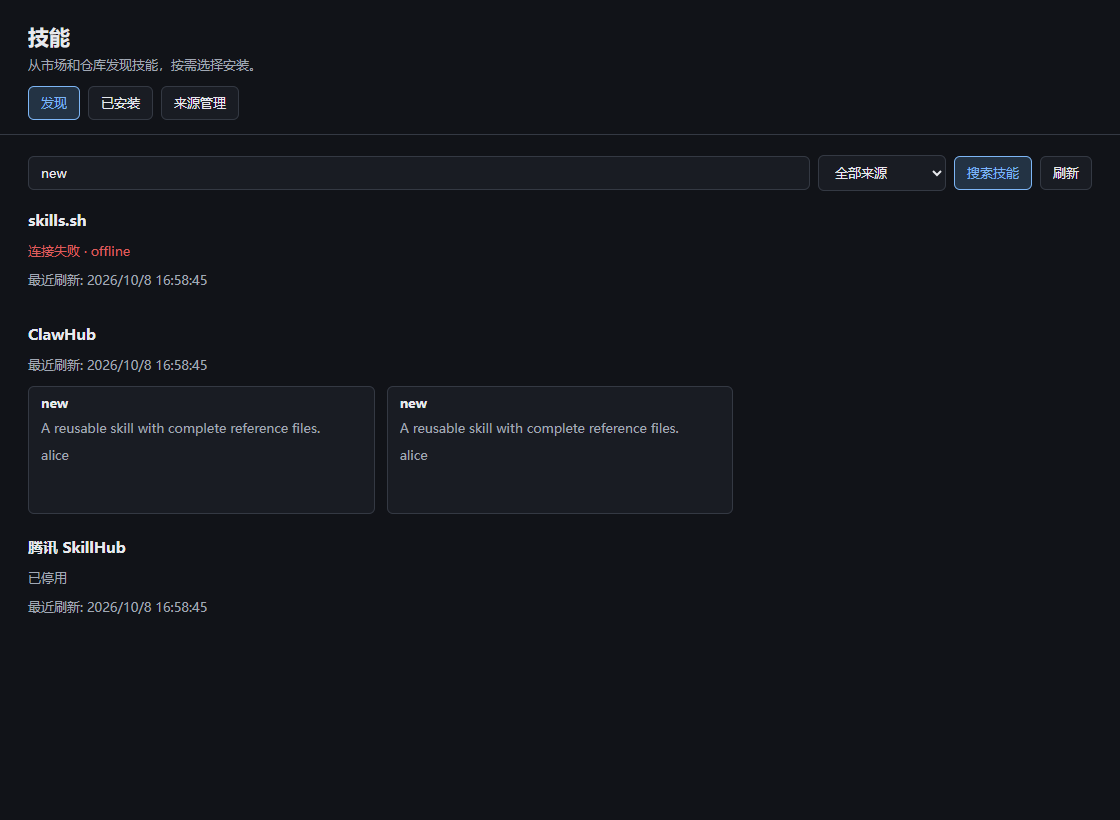
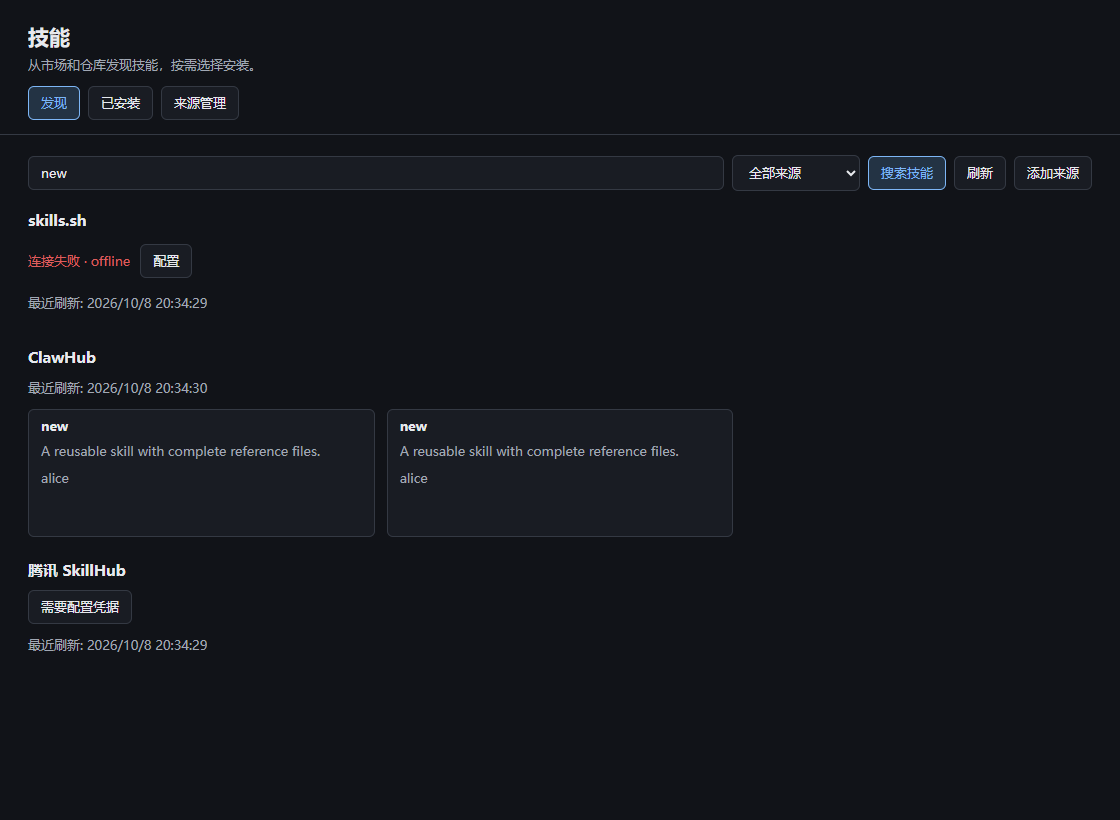
fix(skills): 从发现页直接配置凭据和添加技能来源
将需要配置凭据的状态提示改为可点击入口，直接打开对应来源表单并聚焦凭据输入框；停用或连接失败的来源也提供配置按钮。
在发现页增加添加来源按钮，直接打开自定义 Git 或市场表单，补充表单标题、使用说明、中文更新日志与界面截图。

验证：设置页浏览器回归测试通过，覆盖中英文入口、凭据聚焦、取消不保存、重开凭据为空与自定义 SkillHub 添加；TypeScript 检查及本次修改文件 ESLint 均通过，git diff --check 通过。

diff --git a/components/SkillsConfig.tsx b/components/SkillsConfig.tsx
@@ -12,6 +12,7 @@ import styles from "./skills/Skills.module.css";
 export function SkillsConfig({ cwd, onClose, embedded = false }: { cwd: string; onClose: () => void; embedded?: boolean }) {
   const { t } = useI18n();
   const [tab, setTab] = useState<"discover" | "installed" | "sources">("discover");
+  const [sourceEditor, setSourceEditor] = useState<string | null>();
   const [sources, setSources] = useState<SkillSource[]>([]), [skills, setSkills] = useState<SkillInfo[]>([]);
   const [error, setError] = useState(""), [notice, setNotice] = useState(""), [busy, setBusy] = useState(false), [loading, setLoading] = useState(true);
   const [updates, setUpdates] = useState<Record<string, SkillUpdateResult>>({}), [projectValid, setProjectValid] = useState(false);
@@ -32,6 +33,7 @@ export function SkillsConfig({ cwd, onClose, embedded = false }: { cwd: string; 
     return () => { cancelled = true; generation.current = current + 1; };
   }, [loadSkills, loadSources]);
   const effectiveCwd = projectValid ? cwd : "";
+  function configureSource(id: string | null) { setSourceEditor(id); setTab("sources"); }
   async function action(fn: () => Promise<void>) { setBusy(true); setError(""); try { await fn(); } catch (e) { setError(String(e instanceof Error ? e.message : e)); } finally { setBusy(false); } }
   function key(skill: SkillInfo) { return `${skill.install?.scope}:${skill.install?.package}`; }
   async function check(skill?: SkillInfo) {
@@ -40,10 +42,10 @@ export function SkillsConfig({ cwd, onClose, embedded = false }: { cwd: string; 
   }
   const content = <div ref={ref} className={`${styles.shell} ${embedded ? styles.embedded : ""}`} role={embedded ? "region" : "dialog"} aria-modal={embedded ? undefined : true} aria-label={t("common.skills")}>
     <header className={styles.header}><div><h2>{t("common.skills")}</h2><span className={styles.muted}>{t("skills.intro")}</span></div>{!embedded && <button onClick={onClose}>{t("skills.close")}</button>}</header>
-    <nav className={styles.tabs} role="tablist" aria-label={t("common.skills")}>{(["discover", "installed", "sources"] as const).map(value => <button key={value} role="tab" id={`skills-tab-${value}`} aria-selected={tab === value} aria-controls="skills-panel" onClick={() => setTab(value)}>{t(`skills.${value}`)}</button>)}</nav>
+    <nav className={styles.tabs} role="tablist" aria-label={t("common.skills")}>{(["discover", "installed", "sources"] as const).map(value => <button key={value} role="tab" id={`skills-tab-${value}`} aria-selected={tab === value} aria-controls="skills-panel" onClick={() => { setSourceEditor(undefined); setTab(value); }}>{t(`skills.${value}`)}</button>)}</nav>
     {error && <div role="alert" className={`${styles.notice} ${styles.error}`}>{error}</div>}{notice && <div role="status" className={styles.notice}>{notice}</div>}
     <div className={styles.body} role="tabpanel" id="skills-panel" aria-labelledby={`skills-tab-${tab}`}>
-      {loading ? <p role="status">{t("skills.loading")}</p> : tab === "discover" ? <SkillDiscovery sources={sources} installed={skills} cwd={effectiveCwd} onInstalled={loadSkills}/> : tab === "sources" ? <SkillSources sources={sources} onChanged={loadSources}/> : <>
+      {loading ? <p role="status">{t("skills.loading")}</p> : tab === "discover" ? <SkillDiscovery sources={sources} installed={skills} cwd={effectiveCwd} onInstalled={loadSkills} onConfigureSource={configureSource}/> : tab === "sources" ? <SkillSources sources={sources} onChanged={loadSources} initialSourceId={sourceEditor}/> : <>
         <div className={styles.toolbar}><button disabled={busy} onClick={() => void action(() => check())}>{busy ? t("skills.busy") : t("skills.check")}</button><button disabled={busy} onClick={() => void action(loadSkills)}>{t("skills.refresh")}</button></div>
         {!skills.length && <p className={styles.muted}>{t("skills.empty")}</p>}
         {diagnostics.map((diagnostic, index) => <p className={styles.muted} key={index}>{diagnostic.message} {diagnostic.path}</p>)}

diff --git a/components/skills/Sources.tsx b/components/skills/Sources.tsx
@@ -1,15 +1,23 @@
 "use client";
-import { useState } from "react";
+import { useEffect, useRef, useState } from "react";
 import { useI18n } from "@/hooks/useI18n";
 import type { SkillSource, SourceInput } from "@/lib/skill-sources/types";
 import { skillsRequest } from "./client";
 import styles from "./Skills.module.css";
 
 const blank: SourceInput = { name: "", kind: "git", url: "", enabled: true };
-export function SkillSources({ sources, onChanged }: { sources: SkillSource[]; onChanged: () => Promise<void> }) {
+export function SkillSources({ sources, onChanged, initialSourceId }: { sources: SkillSource[]; onChanged: () => Promise<void>; initialSourceId?: string | null }) {
   const { t } = useI18n();
-  const [editing, setEditing] = useState<SkillSource | null>(null), [form, setForm] = useState<SourceInput | null>(null);
+  const [editing, setEditing] = useState<SkillSource | null>(() => sources.find(source => source.id === initialSourceId) || null);
+  const [form, setForm] = useState<SourceInput | null>(() => editing ? { ...editing, credential: "" } : initialSourceId === null ? { ...blank } : null);
   const [busy, setBusy] = useState(false), [error, setError] = useState(""), [notice, setNotice] = useState("");
+  const formRef = useRef<HTMLFormElement>(null), formOpen = form !== null;
+  useEffect(() => {
+    if (!formOpen) return;
+    formRef.current?.scrollIntoView({ block: "nearest" });
+    const field = editing && editing.kind !== "git" ? 'input[type="password"]' : 'input:not([type="checkbox"]):not(:disabled)';
+    formRef.current?.querySelector<HTMLInputElement>(field)?.focus({ preventScroll: true });
+  }, [editing, formOpen]);
   async function action(data: unknown, method = "POST", close = false) {
     setBusy(true); setError(""); setNotice("");
     try {
@@ -23,7 +31,8 @@ export function SkillSources({ sources, onChanged }: { sources: SkillSource[]; o
   return <>
     <div className={styles.toolbar}><button onClick={() => edit(null)} disabled={busy}>{t("skills.addSource")}</button><span className={styles.muted}>{t("skills.sourceIntro")}</span></div>
     {error && <p role="alert" className={styles.error}>{error}</p>}{notice && <p role="status">{notice}</p>}
-    {form && <form className={styles.form} onSubmit={e => { e.preventDefault(); void action({ ...form, id: editing?.id }, "POST", true); }}>
+    {form && <form ref={formRef} className={styles.form} onSubmit={e => { e.preventDefault(); void action({ ...form, id: editing?.id }, "POST", true); }}>
+      <h3>{editing ? `${t("skills.configure")} · ${editing.name}` : t("skills.addSource")}</h3>
       <label>{t("skills.name")}<input required value={form.name} maxLength={120} disabled={busy} onChange={e => setForm({ ...form, name: e.target.value })}/></label>
       <label>{t("skills.kind")}<select value={form.kind} disabled={busy || editing?.builtin} onChange={e => setForm({ ...form, kind: e.target.value as SourceInput["kind"] })}>
         <option value="git">Git</option><option value="skills-sh">skills.sh v1</option><option value="skillhub">SkillHub</option><option value="clawhub">ClawHub</option>

diff --git a/components/skills/Discover.tsx b/components/skills/Discover.tsx
@@ -6,7 +6,7 @@ import type { CatalogPage, CatalogSkill, SkillDetail, SkillSource } from "@/lib/
 import { skillsRequest } from "./client";
 import styles from "./Skills.module.css";
 
-export function SkillDiscovery({ sources, installed, cwd, onInstalled }: { sources: SkillSource[]; installed: SkillInfo[]; cwd: string; onInstalled: () => Promise<void> }) {
+export function SkillDiscovery({ sources, installed, cwd, onInstalled, onConfigureSource }: { sources: SkillSource[]; installed: SkillInfo[]; cwd: string; onInstalled: () => Promise<void>; onConfigureSource: (id: string | null) => void }) {
   const { t } = useI18n();
   const [query, setQuery] = useState(""), [submitted, setSubmitted] = useState(""), [sourceId, setSourceId] = useState("");
   const [pages, setPages] = useState<Record<string, CatalogPage>>({}), [loading, setLoading] = useState<Set<string>>(new Set());
@@ -77,12 +77,16 @@ export function SkillDiscovery({ sources, installed, cwd, onInstalled }: { sourc
       <input aria-label={t("skills.search")} placeholder={t("skills.search")} value={query} maxLength={500} onChange={e => setQuery(e.target.value)}/>
       <select aria-label={t("skills.source")} value={sourceId} onChange={e => setSourceId(e.target.value)}><option value="">{t("skills.allSources")}</option>{sources.map(s => <option key={s.id} value={s.id}>{s.name}</option>)}</select>
       <button className={styles.primary}>{t("skills.search")}</button><button type="button" onClick={() => setGeneration(n => n + 1)}>{t("skills.refresh")}</button>
+      <button type="button" onClick={() => onConfigureSource(null)}>{t("skills.addSource")}</button>
     </form>
     {(sourceId ? sources.filter(s => s.id === sourceId) : sources).map(source => {
       const page = pages[source.id];
       return <section className={styles.group} key={source.id} aria-label={source.name}>
         <h3>{source.name}</h3>{loading.has(source.id) && <p role="status" className={styles.muted}>{t("skills.loading")}</p>}
-        {page && page.state !== "ready" && <p className={page.state === "error" ? styles.error : styles.muted}>{t(`skills.${page.state}`)}{page.error ? ` · ${page.error}` : ""}</p>}
+        {page && page.state !== "ready" && <div className={styles.row}>
+          {page.state !== "auth-required" && <p className={page.state === "error" ? styles.error : styles.muted}>{t(`skills.${page.state}`)}{page.error ? ` · ${page.error}` : ""}</p>}
+          <button type="button" onClick={() => onConfigureSource(source.id)}>{t(page.state === "auth-required" ? "skills.auth-required" : "skills.configure")}</button>
+        </div>}
         {page?.fetchedAt && <p className={styles.muted}>{page.stale ? `${t("skills.cached")} · ` : ""}{t("skills.updatedAt")}: {new Date(page.fetchedAt).toLocaleString()}</p>}
         {page?.state === "ready" && !page.items.length && <p className={styles.muted}>{t("skills.empty")}</p>}
         <div className={styles.grid}>{page?.items.map(item => <button key={item.id} className={`${styles.card} ${styles.cardButton}`} onClick={() => { setSelection(item); setNotice(""); }}>

diff --git a/CHANGELOG.md b/CHANGELOG.md
@@ -7,6 +7,7 @@ All notable changes to Piora are documented here. The project follows [Semantic 
 ### 技能来源与发现
 
 - 技能设置新增“发现 / 已安装 / 来源管理”：按来源浏览与搜索技能，查看说明、文件和运行依赖后选择全局或项目安装，保留启停与更新检查。
+- 发现页的凭据提示可直接打开对应来源配置，停用或连接失败的来源也可快捷编辑；新增“添加来源”入口，直接填写自定义仓库或市场。
 - 内置 skills.sh、腾讯 SkillHub、ClawHub 和 Anthropic、Vercel 精选仓库，支持自定义公开/私有 Git 仓库及兼容协议的自建市场；SkillHub 需配置部署凭据，私有 Git 复用本机认证。
 - 新安装记录准确来源与版本，提供缓存回退、同名冲突检查、更新本地修改保护和失败回滚；来源停用或删除不移除已安装技能，旧 CLI 安装记录继续兼容。
 - 市场凭据与配置分开保存，跨域下载不转发凭据，技能文件解包校验路径与体积；添加来源和安装技能不会执行技能脚本。

diff --git a/docs/skill-sources.md b/docs/skill-sources.md
@@ -23,6 +23,8 @@ skills.sh 官方 v1 目录 API 使用 Vercel OIDC；其短期 Token 过期后需
 
 来源在项目间共享。变更地址、协议、Git ref 或子目录会创建新的来源标识；之前的安装不会切换更新目标。停用或删除来源保留已安装技能。内置来源可以停用或恢复默认，自定义来源可以移除。
 
+在发现页点击“需要配置凭据 / Configure credentials”即可打开对应来源表单并定位凭据输入框；填写凭据、勾选启用后测试并保存。发现页顶部的“添加来源 / Add source”直接打开新建表单，自建 SkillHub 选择 SkillHub 类型，填写自己的服务地址与凭据即可。也可在“来源管理”中编辑这些配置。
+
 ## 安装和更新
 
 发现页按来源独立加载。搜索与浏览结果缓存 15 分钟，刷新失败时展示已有缓存及时间；只有打开技能页或主动操作才会联网。详情显示原始 `SKILL.md`、文件列表和声明的运行依赖，安装不会执行其中的脚本或自动装依赖。
